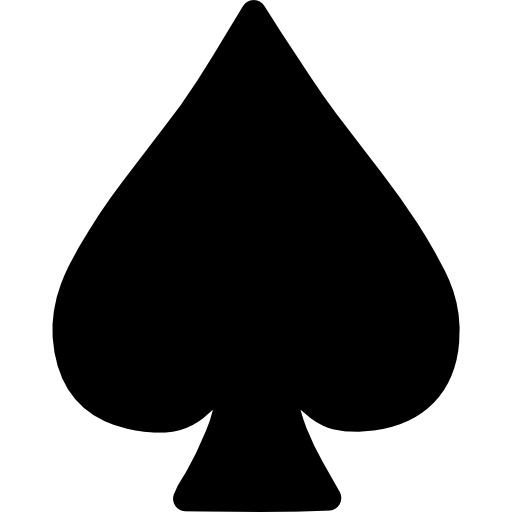
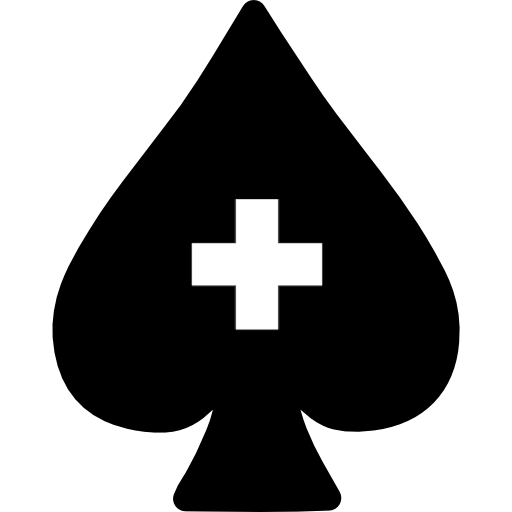
Adiciona imagem

Changed region(s): [[0.375, 0.375, 0.6562, 0.6562]]

diff --git a/Marcador/src/components/Main/index.tsx b/Marcador/src/components/Main/index.tsx
@@ -4,6 +4,7 @@ import styles from "./style"
 
 import Titulo from "../Titulo";
 import Botao from "../Botao";
+import Contador from "../Contador";
 
 export default function Main(){
 
@@ -13,6 +14,7 @@ export default function Main(){
                 <Titulo  style={styles.tituloDireita} titulo={"Eles"}/>
                 <Titulo  style={styles.tituloEsquerda} titulo={"Nós"}/>
             </View>
+            <Contador />
             <Botao/>
         </View>
     )

diff --git a/Marcador/src/components/Contador/index.tsx b/Marcador/src/components/Contador/index.tsx
@@ -1,0 +1,12 @@
+import React from "react";
+import { Image, Text, View } from "react-native";
+
+export default function Contador(){
+    return(
+        <View>
+            <Text>6</Text>
+            <Image  style={{width: 50, height: 70}} source={ require("../../assets/ouros.png")}/>
+            <Image  style={{width: 50, height: 50}} source={ require("../../assets/espada.png")}/>
+        </View>
+    )
+}
